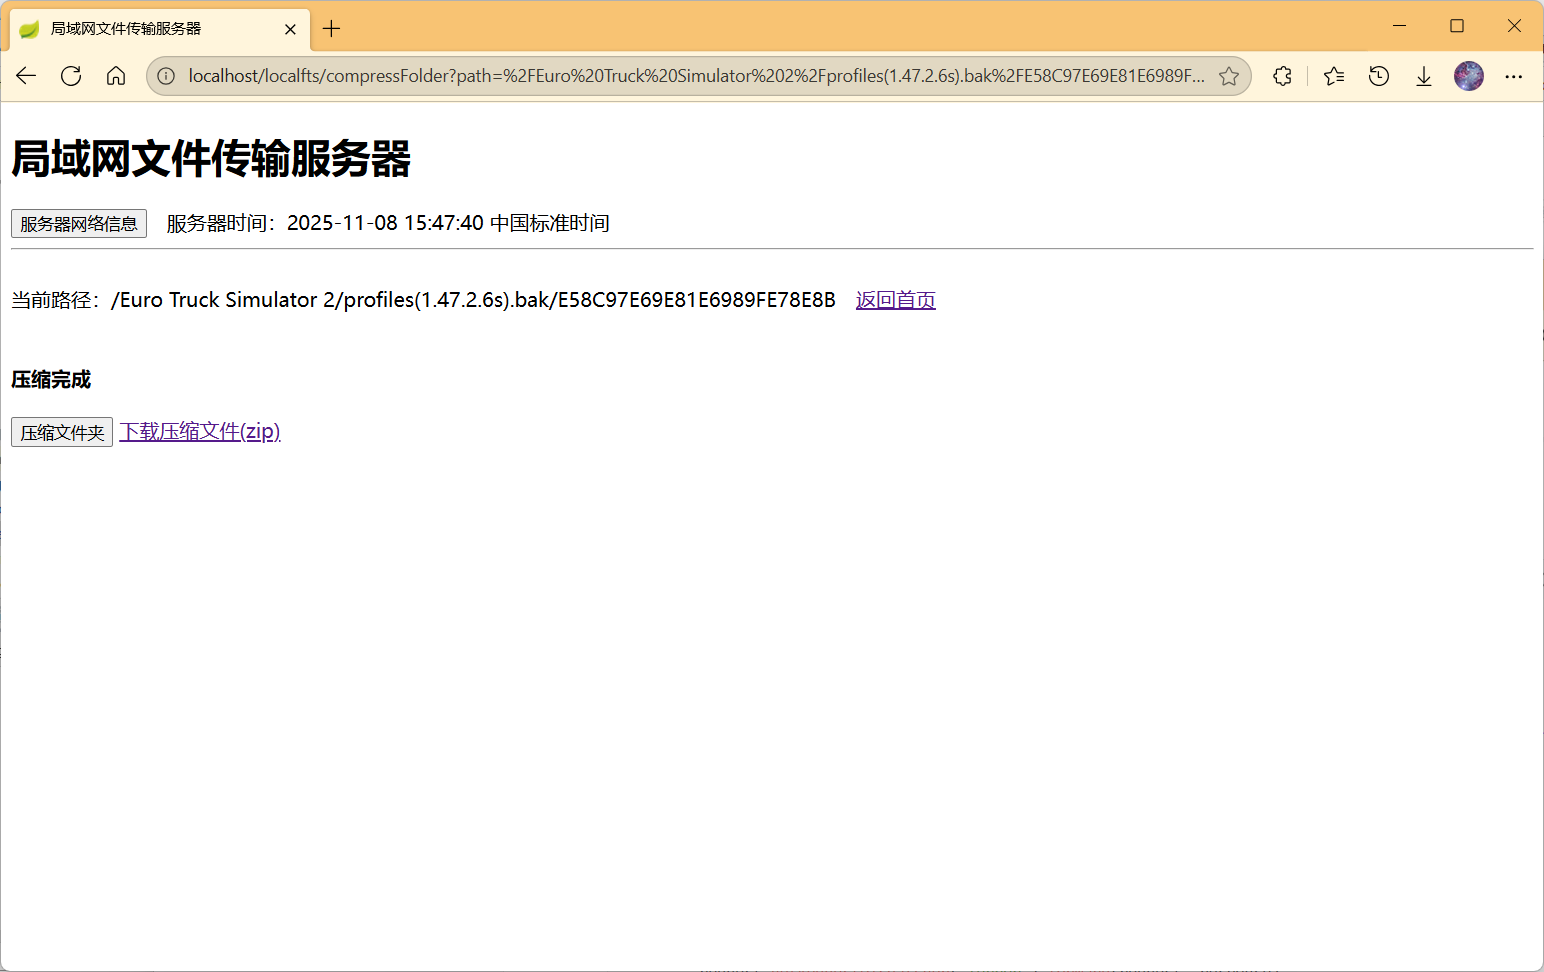
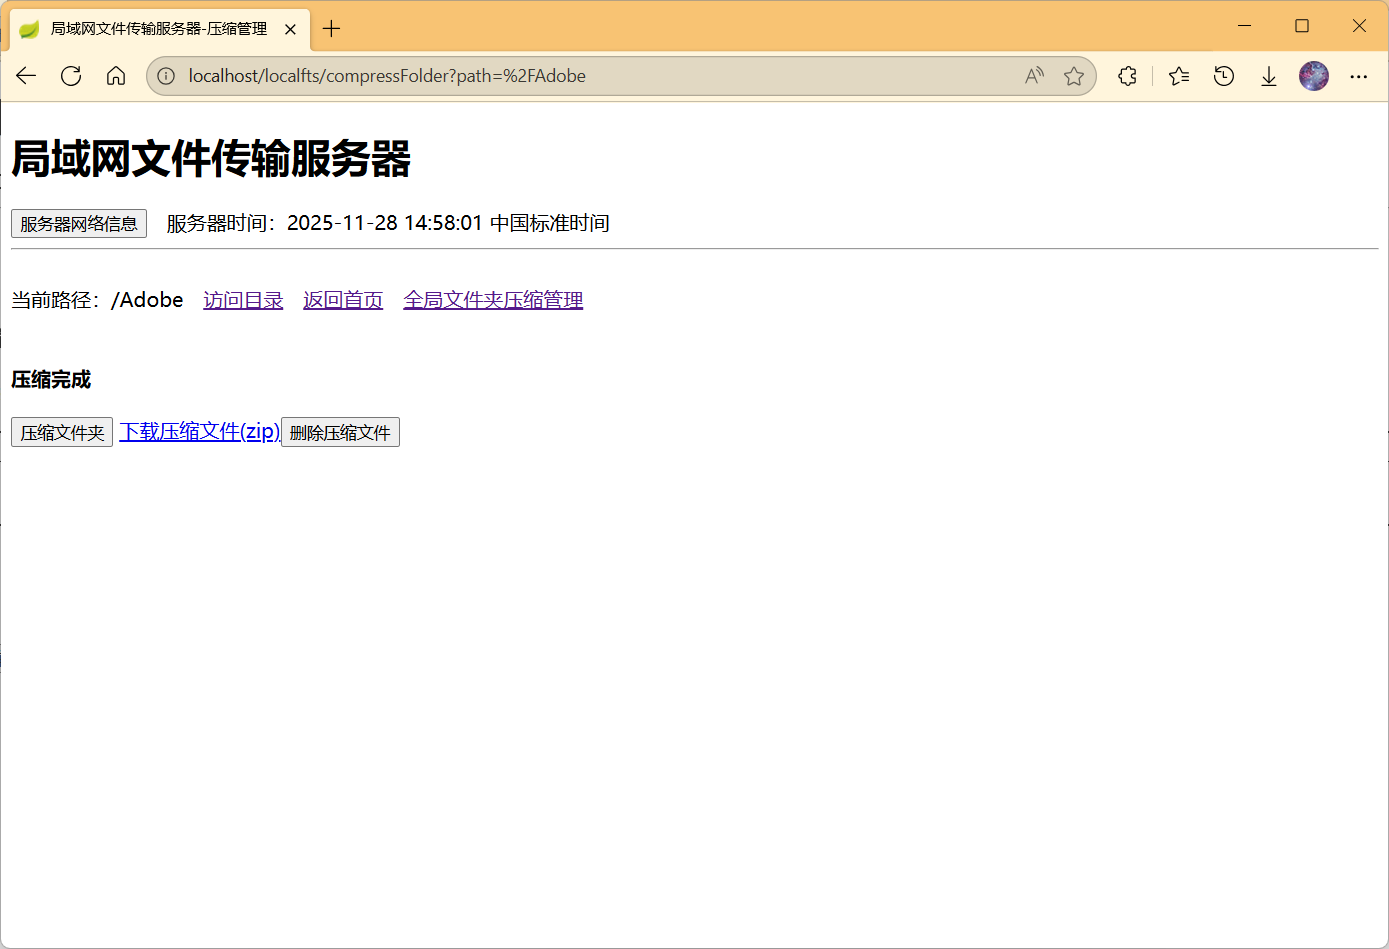
压缩页面和全局压缩管理页面增加访问目录功能；优化取消压缩接口的返回

Changed region(s): [[0.0, 0.0, 0.9906, 0.1834], [0.0, 0.2139, 0.9906, 0.3361], [0.0, 0.3667, 0.2786, 0.4889]]

diff --git a/localfts-server/src/main/resources/templates/compress_folder.html b/localfts-server/src/main/resources/templates/compress_folder.html
@@ -28,7 +28,7 @@
 <body>
 <h1>局域网文件传输服务器</h1><button id="serverIpInfoShowButton" type="button" onclick="document.getElementById('serverIpInfo').setAttribute('class','show')">服务器网络信息</button>&emsp;服务器时间：<span th:text="${serverTime}">server time</span>
 <hr>
-<br>当前路径：<span id="page-path" th:text="${currentPath}">path</span><a style="margin-left:1em" th:href="${#request.contextPath}">返回首页</a><a style="margin-left:1em" th:href="${#request.contextPath} + '/compressManagement'">全局文件夹压缩管理</a><br><br>
+<br>当前路径：<span id="page-path" th:text="${currentPath}">path</span><a style="margin-left:1em" id="visit-directory" th:text="${currentPath}">访问目录</a><a style="margin-left:1em" th:href="${#request.contextPath}">返回首页</a><a style="margin-left:1em" th:href="${#request.contextPath} + '/compressManagement'">全局文件夹压缩管理</a><br><br>
 <div id="serverIpInfo" class="hidden" style="position:absolute;left:0em;top:0em">
     <div style="text-align:center;padding-bottom:1em;padding-top:1em;font-size:1.5em;font-style:bold">服务器网络信息</div>
     <table style="width:90%;margin-left:auto;margin-right:auto;text-align:center;">
@@ -79,10 +79,15 @@
 var contextPath = [[${#request.contextPath}]];
 var currentPath = [[${currentPath}]];
 var URL_DOWNLOAD = concatUrlForConstant(contextPath, '/downloadFile');
+var URL_LIST = concatUrlForConstant(contextPath, '/list');
 var compressStatus = [[${compressStatus}]];
 var needSizeCheck = [[${needSizeCheck}]];
 var backgroundEnabled = [[${backgroundEnabled}]];
 var xhr = null;
+
+var visitDirectory = document.getElementById("visit-directory");
+visitDirectory.setAttribute('href', concatUrlList(visitDirectory.innerText));
+visitDirectory.innerText = '访问目录';
 
 if(compressStatus === 'COMPRESSED') {
   var downloadZip = document.getElementById("download-zip");
@@ -187,7 +192,7 @@ function compressFolder() {
   var compressingHintText = needSizeCheck ? '正在检查文件夹大小并压缩' : '正在压缩';
   var compressingWaitingHintText = compressingHintText + '(等待请求完成...)';
   updateCompressingHint(compressingWaitingHintText);
-  removeChildrenByIdAndTagName('compressingDiv','a');
+  removeElementById('download-zip', 'compressingDiv');
   var cancelCompressButton = document.getElementById('cancelCompressButton');
   if(!cancelCompressButton) {
     cancelCompressButton = document.createElement('button');
@@ -263,6 +268,16 @@ function removeElementById(id,parentId) {
 }
 function concatUrlForConstant(contextPath, path) {
   return contextPath + path;
+}
+function concatUrlList(path, pageNo, pageSize) {
+  var url = URL_LIST + "?path=" + encodeURIComponent(path);
+  if(pageNo !== undefined) {
+    url = url + '&pageNo=' + pageNo;
+  }
+  if(pageSize !== undefined) {
+    url = url + '&pageSize=' + pageSize;
+  }
+  return url;
 }
 function concatUrlDownload(fileName) {
   return URL_DOWNLOAD + "?fileName=" + encodeURIComponent(fileName);

diff --git a/localfts-server/src/main/resources/templates/compress_management.html b/localfts-server/src/main/resources/templates/compress_management.html
@@ -68,6 +68,7 @@
             <td th:text="${item.path}">path</td>
             <td name="statusDesc" th:text="${item.statusDesc}">status</td>
             <td name="links">
+                <a name="visit-directory" th:text="${item.path}">访问目录</a>
                 <a name="compress-folder" th:text="${item.path}">压缩管理</a>
                 <a name="download-zip" th:if="${item.status == 'COMPRESSED'}" th:text="${item.zipFilePath}">下载压缩文件(zip)</a>
             </td>
@@ -125,6 +126,7 @@ var contextPath = [[${#request.contextPath}]];
 var URL_DOWNLOAD = concatUrlForConstant(contextPath, '/downloadFile');
 var URL_COMPRESS_FOLDER = concatUrlForConstant(contextPath, '/compressFolder');
 var URL_COMPRESS_MANAGEMENT = concatUrlForConstant(contextPath, '/compressManagement');
+var URL_LIST = concatUrlForConstant(contextPath, '/list');
 var needSizeCheck = [[${needSizeCheck}]];
 //var backgroundEnabled = [[${backgroundEnabled}]];
 var xhrObject = {};
@@ -150,6 +152,15 @@ if(!compressFolders) {
 for(var i=0;i<compressFolders.length;i++) {
   compressFolders[i].setAttribute("href", concatUrlCompressFolder(compressFolders[i].innerText));
   compressFolders[i].innerText = '压缩管理';
+}
+//deal with visit-directory
+var visitDirectories = document.getElementsByName("visit-directory");
+if(!visitDirectories) {
+  visitDirectories = getElementsByName("a", "visit-directory");
+}
+for(var i=0;i<visitDirectories.length;i++) {
+  visitDirectories[i].setAttribute("href", concatUrlList(visitDirectories[i].innerText));
+  visitDirectories[i].innerText = '访问目录';
 }
 updateCmHint();
 updateCmPageHint();
@@ -489,6 +500,16 @@ function getTdByName(button,tdName) {
 }
 function concatUrlForConstant(contextPath, path) {
   return contextPath + path;
+}
+function concatUrlList(path, pageNo, pageSize) {
+  var url = URL_LIST + "?path=" + encodeURIComponent(path);
+  if(pageNo !== undefined) {
+    url = url + '&pageNo=' + pageNo;
+  }
+  if(pageSize !== undefined) {
+    url = url + '&pageSize=' + pageSize;
+  }
+  return url;
 }
 function concatUrlDownload(fileName) {
   return URL_DOWNLOAD + "?fileName=" + encodeURIComponent(fileName);

diff --git a/localfts-server/src/main/java/com/adam/localfts/webserver/service/FtsService.java b/localfts-server/src/main/java/com/adam/localfts/webserver/service/FtsService.java
@@ -260,7 +260,8 @@ public class FtsService implements DisposableBean {
 
         FolderCompressingInfo folderCompressingInfo = folderCompressingInfoMap.get(folderAbsolutePath);
         if(folderCompressingInfo == null) {
-            return ReturnObject.fail("文件夹未在压缩");
+            LOGGER.warn("FolderCompressingInfo not found for {}, no need to cancel", folderAbsolutePath);
+            return ReturnObject.success();
         }
 
         boolean interrupt = folderCompressingInfo.interruptThread();
